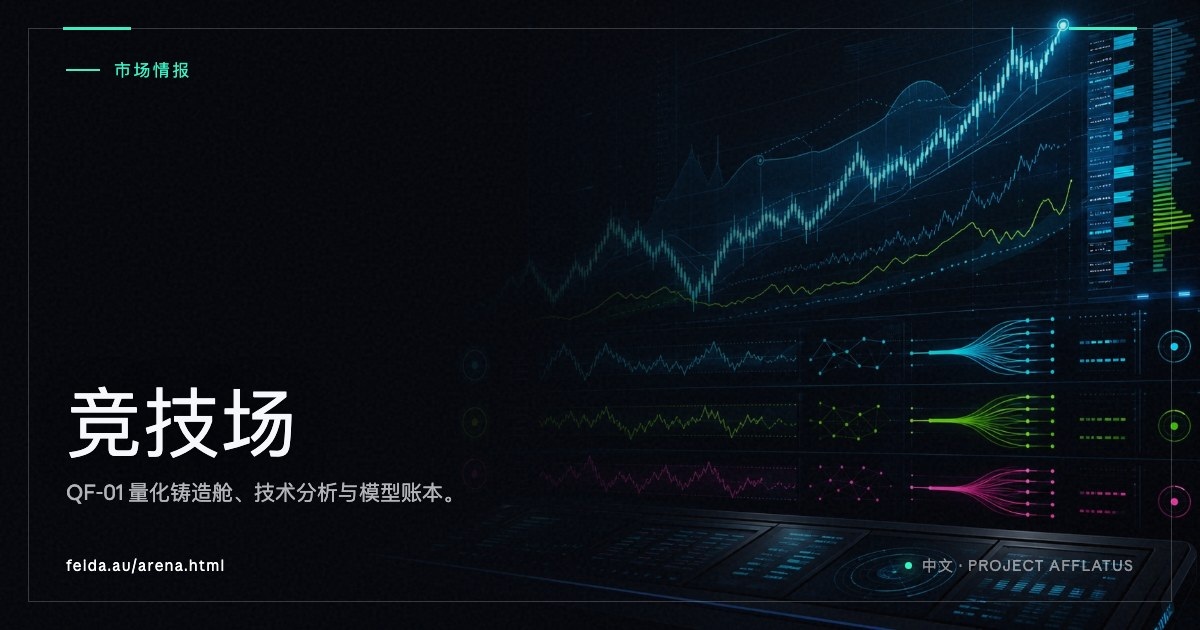
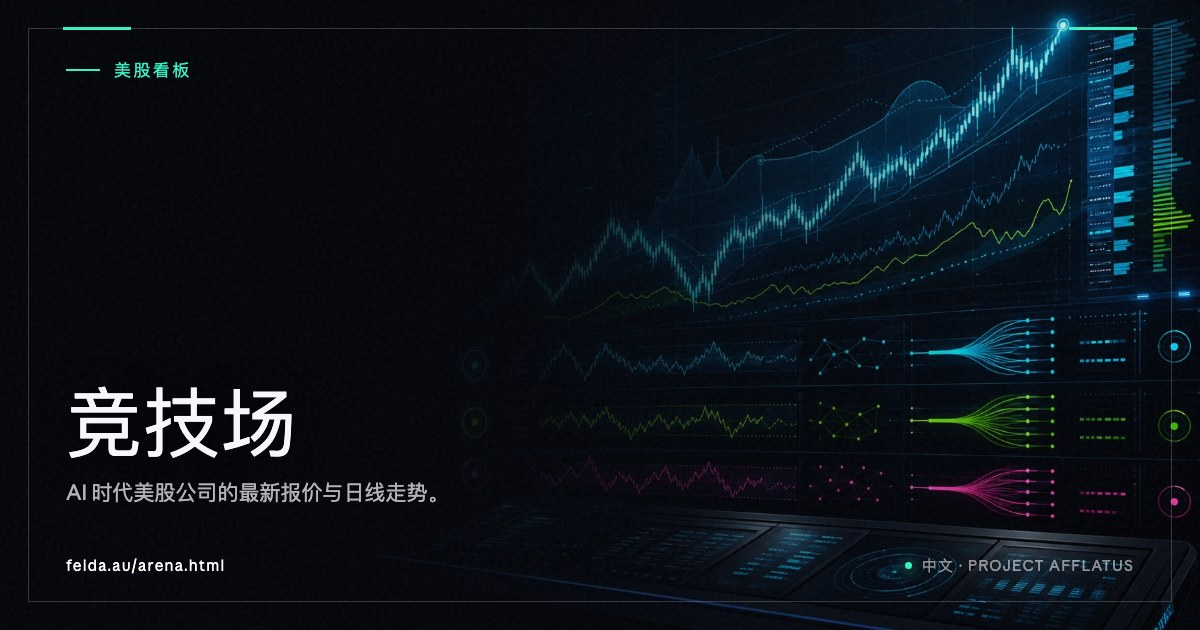
fix(arena): make title, description, OG and JSON-LD match the journal (P2-17)
The page called itself "Stock observation & investment simulation" in its
metadata, "Market journal" at runtime, and its JSON-LD claimed a dataset
of QF-01 simulation logs it no longer shows.

- Title and description are now "US stock journal" / 美股看板 and state the
  quote and candle sources; the runtime title uses the same strings.
- JSON-LD describes a WebApplication only; the Dataset and methodology
  Article (and their stale 2026-08 provenance dates, also dropped from the
  sitemap) are removed.
- OG card subtitle and the homepage link label no longer mention QF-01.

Changed region(s): [[0.0617, 0.754, 0.37, 0.8143], [0.0925, 0.0905, 0.1542, 0.1206]]

diff --git a/arena.html b/arena.html
@@ -7,15 +7,15 @@
 <!-- Sensitive input page: third-party analytics intentionally disabled. -->
 <meta charset="utf-8">
 <meta name="viewport" content="width=device-width, initial-scale=1, viewport-fit=cover">
-<title>Stock observation &amp; investment simulation · AFFLATUS</title>
-<meta name="description" content="Explore stock charts, technical analysis and investment simulations using historical data. Simulated results are not account returns or investment advice.">
+<title>US stock journal · AFFLATUS</title>
+<meta name="description" content="Follow a watchlist of AI-era US companies with the latest Finnhub quotes and Twelve Data daily charts. Quotes may be delayed. Not investment advice.">
 <meta name="theme-color" content="#05070e">
 <link rel="canonical" href="https://feida.au/arena.html">
   <!-- afflatus:route-seo:start -->
   <meta property="og:type" content="website">
   <meta property="og:site_name" content="Project Afflatus">
-  <meta property="og:title" content="Stock observation &amp; investment simulation · AFFLATUS">
-  <meta property="og:description" content="Explore stock charts, technical analysis and investment simulations using historical data. Simulated results are not account returns or investment advice.">
+  <meta property="og:title" content="US stock journal · AFFLATUS">
+  <meta property="og:description" content="Follow a watchlist of AI-era US companies with the latest Finnhub quotes and Twelve Data daily charts. Quotes may be delayed. Not investment advice.">
   <meta property="og:url" content="https://feida.au/arena.html">
   <meta property="og:locale" content="en_AU">
   <meta property="og:locale:alternate" content="zh_CN">
@@ -26,8 +26,8 @@
   <meta property="og:image:height" content="630">
   <meta property="og:image:alt" content="Arena market intelligence data lanes">
   <meta name="twitter:card" content="summary_large_image">
-  <meta name="twitter:title" content="Stock observation &amp; investment simulation · AFFLATUS">
-  <meta name="twitter:description" content="Explore stock charts, technical analysis and investment simulations using historical data. Simulated results are not account returns or investment advice.">
+  <meta name="twitter:title" content="US stock journal · AFFLATUS">
+  <meta name="twitter:description" content="Follow a watchlist of AI-era US companies with the latest Finnhub quotes and Twelve Data daily charts. Quotes may be delayed. Not investment advice.">
   <meta name="twitter:image" content="https://feida.au/assets/og/arena-en.jpg">
   <meta name="twitter:image:alt" content="Arena market intelligence data lanes">
   <script type="application/ld+json" data-afflatus-route-schema="arena" lang="en-AU">
@@ -68,8 +68,8 @@
       "@type": "WebPage",
       "@id": "https://feida.au/arena.html#webpage",
       "url": "https://feida.au/arena.html",
-      "name": "Stock observation & investment simulation · AFFLATUS",
-      "description": "Explore stock charts, technical analysis and investment simulations using historical data. Simulated results are not account returns or investment advice.",
+      "name": "US stock journal · AFFLATUS",
+      "description": "Follow a watchlist of AI-era US companies with the latest Finnhub quotes and Twelve Data daily charts. Quotes may be delayed. Not investment advice.",
       "inLanguage": [
         "en-AU",
         "zh-CN"
@@ -83,19 +83,15 @@
       "breadcrumb": {
         "@id": "https://feida.au/arena.html#breadcrumb"
       },
-      "dateModified": "2026-08-20T13:30:21.737Z",
       "mainEntity": {
         "@id": "https://feida.au/arena.html#application"
-      },
-      "hasPart": {
-        "@id": "https://feida.au/arena.html#methodology"
       }
     },
     {
       "@type": "WebApplication",
       "@id": "https://feida.au/arena.html#application",
-      "name": "Stock observation & investment simulation · AFFLATUS",
-      "description": "Explore stock charts, technical analysis and investment simulations using historical data. Simulated results are not account returns or investment advice.",
+      "name": "US stock journal · AFFLATUS",
+      "description": "Follow a watchlist of AI-era US companies with the latest Finnhub quotes and Twelve Data daily charts. Quotes may be delayed. Not investment advice.",
       "url": "https://feida.au/arena.html",
       "applicationCategory": "FinanceApplication",
       "operatingSystem": "Any",
@@ -109,87 +105,7 @@
         "@type": "Offer",
         "price": 0,
         "priceCurrency": "AUD"
-      },
-      "mainEntity": {
-        "@id": "https://feida.au/arena.html#dataset"
       }
-    },
-    {
-      "@type": "Article",
-      "@id": "https://feida.au/arena.html#methodology",
-      "headline": "Arena simulation methodology and limits",
-      "description": "QF-01 applies factor scoring, regime detection and hard portfolio constraints in a costed, no-look-ahead walk-forward window; three separate model ledgers are compared with SPY and SMH. All outcomes are research simulations, not investment advice.",
-      "url": "https://feida.au/arena.html#briefing",
-      "inLanguage": [
-        "en-AU",
-        "zh-CN"
-      ],
-      "author": {
-        "@id": "https://feida.au/#person"
-      },
-      "publisher": {
-        "@id": "https://feida.au/#person"
-      },
-      "about": {
-        "@id": "https://feida.au/arena.html#dataset"
-      },
-      "isPartOf": {
-        "@id": "https://feida.au/arena.html#webpage"
-      }
-    },
-    {
-      "@type": "Dataset",
-      "@id": "https://feida.au/arena.html#dataset",
-      "name": "Arena public simulation records",
-      "description": "QF-01 model manifest, simulation run logs, prediction logs, and equity universe used by the Arena interface.",
-      "url": "https://feida.au/arena.html",
-      "inLanguage": [
-        "en-AU",
-        "zh-CN"
-      ],
-      "creator": {
-        "@id": "https://feida.au/#person"
-      },
-      "measurementTechnique": [
-        "rule-constrained model simulation",
-        "benchmark-relative return tracking",
-        "costed walk-forward factor simulation"
-      ],
-      "variableMeasured": [
-        "model prediction",
-        "simulated position",
-        "simulated return",
-        "benchmark return",
-        "factor score",
-        "constrained portfolio weight"
-      ],
-      "distribution": [
-        {
-          "@type": "DataDownload",
-          "name": "Arena run log",
-          "encodingFormat": "application/json",
-          "contentUrl": "https://feida.au/arena-runlog.json"
-        },
-        {
-          "@type": "DataDownload",
-          "name": "Arena prediction log",
-          "encodingFormat": "application/json",
-          "contentUrl": "https://feida.au/arena-predlog.json"
-        },
-        {
-          "@type": "DataDownload",
-          "name": "Arena equity universe",
-          "encodingFormat": "application/json",
-          "contentUrl": "https://feida.au/arena-universe.json"
-        },
-        {
-          "@type": "DataDownload",
-          "name": "QF-01 model manifest",
-          "encodingFormat": "application/json",
-          "contentUrl": "https://feida.au/arena-quant-model.json"
-        }
-      ],
-      "dateModified": "2026-08-20T13:30:21.737Z"
     },
     {
       "@type": "BreadcrumbList",

diff --git a/src/config/siteManifest.js b/src/config/siteManifest.js
@@ -60,11 +60,11 @@ export const ROUTE_SEO = Object.freeze({
   arena: {
     social: {
       background: 'assets/og-backgrounds/arena.jpg',
-      eyebrow: { en: 'MARKET INTELLIGENCE', zh: '市场情报' },
+      eyebrow: { en: 'US STOCK JOURNAL', zh: '美股看板' },
       title: { en: 'Arena', zh: '竞技场' },
       subtitle: {
-        en: 'QF-01 quant foundry, technical analysis and model ledgers.',
-        zh: 'QF-01 量化铸造舱、技术分析与模型账本。',
+        en: 'Latest quotes and daily charts for AI-era US companies.',
+        zh: 'AI 时代美股公司的最新报价与日线走势。',
       },
       alt: {
         en: 'Arena market intelligence data lanes',
@@ -72,14 +72,7 @@ export const ROUTE_SEO = Object.freeze({
       },
       images: { en: routeOgImage('arena', 'en'), zh: routeOgImage('arena', 'zh') },
     },
-    structuredData: {
-      kind: 'arena',
-      provenance: [
-        { path: 'public/arena-quant-model.json', dateField: 'updated' },
-        { path: 'public/arena-daily-digest.json', dateField: 'generatedAt' },
-        { path: 'public/arena-news.json', dateField: 'generatedAt' },
-      ],
-    },
+    structuredData: { kind: 'arena' },
   },
   sectors: {
     social: {
@@ -249,20 +242,20 @@ export const SITE_MANIFEST = Object.freeze([
     defaultLocale: 'en',
     nav: { order: 20, group: null, en: 'Arena', zh: '竞技场' },
     themeColor: '#05070e',
-    schema: ['WebApplication', 'Article', 'Dataset'],
+    schema: ['WebApplication'],
     seo: ROUTE_SEO.arena,
     capabilities: ['live-data', 'canvas', 'svg-viz', 'admin-session'],
     metadata: {
-      title: "Stock observation & investment simulation · AFFLATUS",
-      description: "Explore stock charts, technical analysis and investment simulations using historical data. Simulated results are not account returns or investment advice.",
+      title: "US stock journal · AFFLATUS",
+      description: "Follow a watchlist of AI-era US companies with the latest Finnhub quotes and Twelve Data daily charts. Quotes may be delayed. Not investment advice.",
       canonical: 'https://feida.au/arena.html',
-      ogTitle: "Stock observation & investment simulation · AFFLATUS",
-      ogDescription: "Explore stock charts, technical analysis and investment simulations using historical data. Simulated results are not account returns or investment advice.",
+      ogTitle: "US stock journal · AFFLATUS",
+      ogDescription: "Follow a watchlist of AI-era US companies with the latest Finnhub quotes and Twelve Data daily charts. Quotes may be delayed. Not investment advice.",
       ogImage: ROUTE_SEO.arena.social.images.en,
     },
     locales: {
-      en: {"title": "Stock observation & investment simulation · AFFLATUS", "description": "Explore stock charts, technical analysis and investment simulations using historical data. Simulated results are not account returns or investment advice."},
-      zh: {"title": "股票观察与模拟投资 · AFFLATUS", "description": "查看股票图表、技术分析，并用历史数据测试模拟投资。模拟结果并非真实账户收益，非投资建议。"},
+      en: {"title": "US stock journal · AFFLATUS", "description": "Follow a watchlist of AI-era US companies with the latest Finnhub quotes and Twelve Data daily charts. Quotes may be delayed. Not investment advice."},
+      zh: {"title": "美股看板 · AFFLATUS", "description": "关注 AI 时代的美股公司：Finnhub 最新报价与 Twelve Data 日线走势。报价可能有延迟，不构成投资建议。"},
     },
   },
   {
@@ -448,7 +441,7 @@ export const HOME_NAV_GROUPS = Object.freeze([
     { routeId: 'portfolio', hash: '#fy2026Performance', label: { en: 'FY25/26 flight record', zh: 'FY25/26 飞行记录' } },
   ] },
   { id: 'lab', label: { en: 'Lab', zh: '实验室' }, items: [
-    { routeId: 'arena', label: { en: 'QF-01 Quant Foundry', zh: 'QF-01 量化铸造舱' } },
+    { routeId: 'arena', label: { en: 'US stock journal', zh: '美股看板' } },
     { routeId: 'sectors', label: { en: 'US–China AI model war', zh: '中美 AI 模型战争' } },
     { routeId: 'horoscope', label: { en: 'Local-first astrology', zh: '本地优先星盘' } },
   ] },

diff --git a/tests/localizedSite.test.js b/tests/localizedSite.test.js
@@ -28,7 +28,7 @@ describe('localized site generator', () => {
   it('emits a fixed Chinese document with localized content and URL contracts', () => {
     const html = transformLocalizedDocument(fixture, arena, 'zh');
     expect(html).toContain('<html lang="zh-CN" data-afflatus-locale="zh">');
-    expect(html).toContain('<title>股票观察与模拟投资 · AFFLATUS</title>');
+    expect(html).toContain('<title>美股看板 · AFFLATUS</title>');
     expect(html).toContain('rel="canonical" href="https://feida.au/zh/arena.html"');
     expect(html).toContain('hreflang="en" href="https://feida.au/en/arena.html"');
     expect(html).toContain('hreflang="zh-CN" href="https://feida.au/zh/arena.html"');

diff --git a/tests/routeSeo.test.js b/tests/routeSeo.test.js
@@ -55,7 +55,9 @@ describe('route SEO architecture', () => {
     );
     expect(graphTypes(sectors).has('Dataset')).toBe(false);
     expect(graphTypes(signal).has('NewsArticle')).toBe(false);
-    expect(graphTypes(arena)).toContain('Dataset');
+    // The journal shows third-party quotes at view time; it publishes no dataset.
+    expect(graphTypes(arena).has('Dataset')).toBe(false);
+    expect(graphTypes(arena)).toContain('WebApplication');
   });
 
   it('derives trustworthy route dates from declared public provenance', () => {

diff --git a/src/config/navRoutes.generated.js b/src/config/navRoutes.generated.js
@@ -104,8 +104,8 @@ export const HOME_NAV_GROUPS = Object.freeze([
       {
         "routeId": "arena",
         "label": {
-          "en": "QF-01 Quant Foundry",
-          "zh": "QF-01 量化铸造舱"
+          "en": "US stock journal",
+          "zh": "美股看板"
         },
         "href": "/arena.html"
       },
